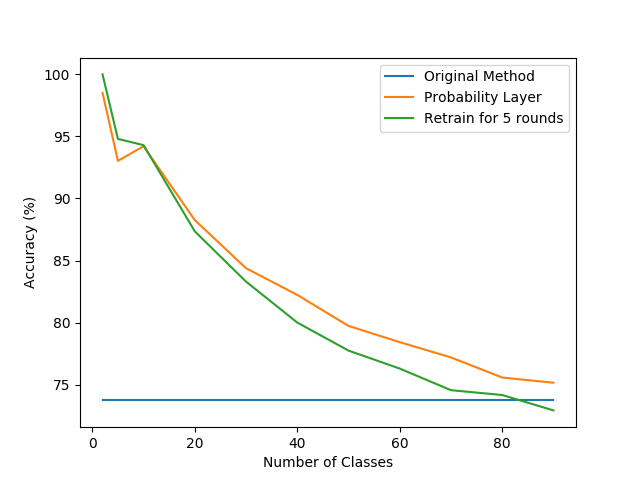
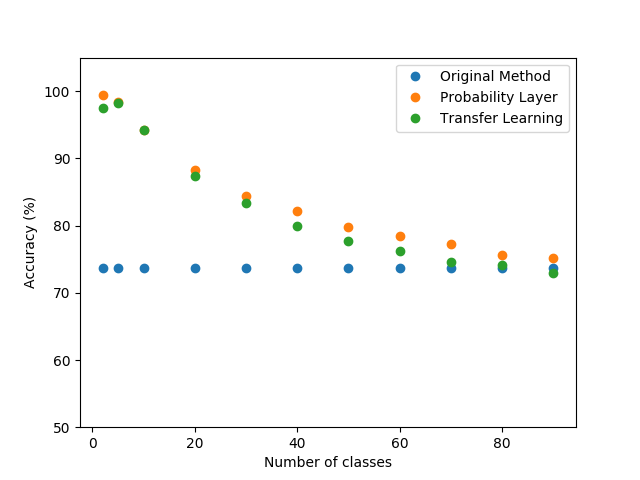
New Version

diff --git a/Writing/NIPS2018/main.tex b/Writing/NIPS2018/main.tex
@@ -10,12 +10,17 @@
 \usepackage{nicefrac}       % compact symbols for 1/2, etc.
 \usepackage{microtype}      % microtypography
 \usepackage{graphicx}
-\usepackage{caption}
+\usepackage[tableposition=top]{caption}
 \usepackage{subcaption}
 \usepackage{amsmath}
 \usepackage{xcolor}
 
-\title{Formatting instructions for NIPS 2018}
+\usepackage{float}
+\floatstyle{plaintop}
+\restylefloat{table}
+
+
+\title{ProbabilityCNN: Environment Adaptive Model Without Finetuning}
 
 % The \author macro works with any number of authors. There are two
 % commands used to separate the names and addresses of multiple
@@ -65,7 +70,7 @@
 
 
 \begin{abstract}
-  We can meet thousands of objects through years, i.e., different kind of animals, plants, and various people, which requires a general model classifying all these object. On the other hand, in a specific environment, like our home or office, only less than ten objects appear, such as family members, pets, and furniture. Thus a special model recognizing a few objects could be sufficient. Using a special model in these environment could lead automatically to a much higher accuracy since there is a reduction in number of classes. However, using special models has a intrinsic problem that there are so many environment and mind-bogglingly many combinations of objects, which makes it infeasible to train special models one-by-one. In the contrast, the general model could be trained once and used everywhere. General model also has another benefit that it has seen much more images than a special model and a special model derived from the general model could have much higher accuracy than the one trained from scratch. The problem is, given various combination of classes and distribution, could we train a general model and \textit{derive specialized models from it efficiently for all combinations?} The intuitive idea would be transfer learning, in which the last few layers of the general model will be retrained for the specialized dataset. However, considering the time latency and energy consuming of retraining a model, we argue that avoiding retraining is critical in the efficient derivation of specialied models. Instead, we brought up \textit{probability layer}, which could adapt the general model to all combinations of classes and distribution efficiently without any retraining. Through experiments, it was shown that probability layer without retraining could perform equivalent or even better than transfer learning with retraining.
+  We can meet thousands of objects through years, i.e., different kind of animals, plants, and various people, which requires a general model to classify all these objects. On the other hand, in a specific environment, like our home or office, only less than ten objects appear, such as family members, pets, and furniture. Thus a special model recognizing a few objects could be sufficient. Using a special model in these environment could lead automatically to a much higher accuracy since there is a reduction in number of classes. However, using special models has a intrinsic problem that there are so many environment and mind-bogglingly many combinations of objects, which makes it infeasible to train special models one-by-one. In the contrast, the general model could be trained once and used everywhere. General model also has another benefit that it has seen much more images than a special model and a special model derived from the general model could have much higher accuracy than the one trained from scratch. The problem is, given various combination of classes and distribution, could we train a general model and \textit{derive specialized models from it efficiently for all combinations?} The intuitive idea would be transfer learning, in which the the general model is fintuned to adapt for new dataset. However, considering the time latency and energy consumption of finetuning a model, we argue that avoiding fintuning is critical in the efficient derivation of specialied models. Instead, we brought up \textit{probability layer}, which could adapt the general model to all combinations of classes and distribution efficiently without any retraining. Through experiments, it was shown that probability layer without retraining could perform equivalent or even better than transfer learning with retraining.
 \end{abstract}
 
 
@@ -164,19 +169,14 @@ I_X(x) = \begin{cases}
 0, &\text{$o.w.$}
 \end{cases}
 \end{equation}
-. If a model have a strong confidence in its prediction, the accuracy would be much higher than the model's average accuracy. Fig. \ref{fig:threshold} shows that accuracy on denseNet for images with predicted probability higher than various threshold. While the original denseNet has top-1 accuracy as $73\%$, the accuracy increase to $83\%$ when we set the threshold $\omega$ to be $75\%$. When we increase furtherly the threshold $\omega$ to be $99\%$, the accuracy would increase to $95.01\%$. Thus when a model has strong confidence in its prediction, we should better believe in the model instead of rescaling. The bar plot in Fig. \ref{fig:threshold} also shows that lots of images can get high predicted probability from original model. For example, in denseNet, there are more than 60\% images get predicted probability higher than 95\%. Thus most of the images from minor classes could be classified correctly. 
-
-\begin{figure}
-\centering
-\includegraphics[scale = 0.6]{threshold.png}
-\caption{Probability Layer Intuition}
-\label{fig:threshold}
-\end{figure}
+. If a model have a strong confidence in its prediction, the accuracy would be much higher than the model's average accuracy. Our experiments show that CNNs will give most of the images high predicted probability and the accuracy of these images will exceed average accuracy a lot. Probability layer helps when the original model is confused on the prediction and will not interfere the decision when the original model has confidence in its prediction.
 
 
 
 
-\begin{figure}
+
+
+\begin{figure}[t]
 \begin{subfigure}{.25\textwidth}
   \centering
   \includegraphics[width=\textwidth]{rocket.png}
@@ -208,67 +208,128 @@ Fig. \ref{fig:intuition} gives intuition on how probability layer utilize enviro
 %how to select general model?
 
 
-% compare probability layer with naive mask
-
 \section{Experiments}
-To show their potential, we evaluate PCNN on three tasks. First, with fixed distribution, we compare the performance of probability layer with transfer learning. Second, for data stream with minor classes, we compare the performance of probability layer with transfer learning. Third, we show that probability layer is complementary to acceleration methods through combining probability layer with spatial redundancy elimination approach \cite{figurnov2016perforatedcnns} to achieve decreased computation and improved accuracy.
+%We use three convolutional neural networks of increasing size and computational complexity: AlexNet \cite{krizhevsky2012imagenet}, ResNet \cite{he2016deep}, and DenseNet \cite{huang2017densely}. We reimplement these three networks on Tensorflow and train the model on CIFAR100 \cite{krizhevsky2009learning} from scratch. The statistics for the original model is shown in Table xxx. In all networks, we attempt to add probability layer after the softmax layer. 
 
-\subsection{Probability layer with fixed distribution}
+We implemented probability layer on DenseNet \cite{huang2017densely} and evaluated the PCNN on specialized dataset with various number of classes and class distribution. We choose DenseNet as the base model since it is the state-of-the-art and has similar results with other state-of-the-art models, i.e., GoogLeNet \cite{szegedy2015going} and ResNet \cite{he2016deep}. We reimplemented the DenseNet on Tensorflow \cite{abadi2016tensorflow} and trained the model on CIFAR100 \cite{krizhevsky2009learning} from scratch. The \textit{specialized dataset} is generated from CIFAR100 \cite{krizhevsky2009learning}, which originally has $100$ classes with equal weight. 
+
+\textbf{Transfer Learning.} Following the published practice \cite{doersch2015unsupervised, han2016mcdnn, oquab2014learning, shen2017fast, yosinski2014transferable}, all fully-connected layers after convolutional layers are finetuned on generated dataset with same class distribution as the testing dataset. To eliminate the effect of epoch, we used three different epochs, i.e., $1$, $5$, and $30$. The maximum epoch is $30$ because latency and energy efficiency are considered.
+
+To show the potential of PCNN, we evaluate probability layer on specialized datasets composed with various number of classes and class distributions. We begin our experiments by showing that different class combinations have significant influence over the accuracy and probability layer can bring in benefit and perform better than transfer learning on all class combinations. Then we show that probability layer can improve accuracy for any number of classes and make use of unbalanced distribution. We proceed to show that most of the images will have predicted probability higher than $75\%$ and the accuracy among these high-confidence images is $84\%$. Finally, we demonstrate that probability layer is complementary to acceleration methods through combining probability layer with spatial redundancy elimination approach \cite{figurnov2016perforatedcnns} to achieve decreased computation and improved accuracy.
+
+\subsection{Class effect}
+We explore the effect of class combinations and compare the performance of probability layer and transfer learning on various class combinations. Fixing number of classes as two, we randomly selected five class combinations and compare the original model, model after transfer learning, and the model with probability layer, see fig. \ref{fig:classEffectExamples}. We see that with the same model, different class combinations may have drmatically different accuracy. While the original model can achieve a accuracy as 83\% for classifying chair and cup, the accuracy for beaver and bear is only 52.5\%. We can also observe that both transfer learning and probability layer can bring in benefit no matter which two classes compose the dataset while probability layer generally performs better than transfer learning. In the randomly selected five class combinations, probability layer can provide an additional benefit of $2.16\%$ on average. Note that for fox and pine, transfer learning provides a slightly better accuracy than probability layer. We believe that this is due to randomness, especially when considering that transfer learning performs better on all other class combinations. 
+
+Fig. \ref{fig:classEffectSummary} gives a summary over performance of all three models on specialized dataset with two and five classes. The figure shows the result from $100$ randomly selected class combinations. We see that, on the original model, while the average accuracy for classifying two classes is $70\%$, the minimum accuracy could be $45\%$ and the maximum accuracy can reach $83\%$, which shows that the accuracy of classifying two classes could change dramatically even using the same model. This observation also holds for transfer learning and probability layer. We can also note that the average accuracy of probability layer is much higher than transfer learning. 
+
+\begin{figure}[t]
+    \begin{subfigure}[b]{0.47\textwidth}
+        %\centering
+        \includegraphics[width=\textwidth]{classEffectLine.png}
+        \caption{Concrete examples}
+        \label{fig:classEffectExamples}
+    \end{subfigure}
+    \begin{subfigure}[b]{0.47\textwidth}
+        %\centering
+        \includegraphics[width=\textwidth]{classEffect.png}
+        \caption{Summary of class effect}
+        \label{fig:classEffectSummary}
+    \end{subfigure}
+    \caption{Class effect on the original model, the model after finetuning, and the model with probability layer.} \label{fig:classEffect}
+\end{figure}
+
+\subsection{Results on specialized datasets with only majority classes}
 % Third paragraph: Experiment setting
-We evaluate probability layer's ability in making use of environment on number of classes as well as in-class distribution when number of classes is fixed. The dataset is a subset of CIFAR100 \cite{krizhevsky2009learning}. CIFAR100 \cite{krizhevsky2009learning} is a dataset containing 100 classes with $50,000$ images in training dataset and $10,000$ images in testing dataset. We trained denseNet \cite{huang2017densely} on original CIFAR100 training datasets. For testing part, to evaluate the performance of probability layer under various conditions, we choose a subset of testing images as the new testing dataset. For various number of classes, we select a subset of classes and each class has equal number of images. For testing the ability to adapt to a dataset with a few major classes and many minor classes, we choose $10$ classes as the major class, select all $100$ testing images for each class, and randomly choose a fixed number of testing images in other $90$ classes, according to the desired percentage that $10$ major classes occupy. For implementing probability layer, we calculate the percentage of every class in the generated testing dataset and set up the parameters in probability layer correspondingly. When implementing transfer learning, we use the same model trained on CIFAR100 and retrain on the same generated training dataset. For the retraining process, we retrain all fully-connected layers after convolutional layers, since this is the method reported to have best accuracy gain (CITATIONS). In the retraining process, various epoches were used, i.e. $1$, $5$, $30$. The maximum epoch tried is $30$ because we consider both latency and energy which could be used in normal operation instead of retraining. For example, if the generated training dataset has 10 classes and 500 images in each class, retraining for $30$ epochs means that $150,000$ images will be processed by the models. Since generally the image will be processed every one second, the machine can proceed around $41$ more hours without so many retraining.
+We explore probability layer's ability on making use of environment when there are only a few majority classes. For each number of classes, we randomly sampled $100$ subsets of classes and present the average accuracy in fig. \ref{fig:PLvsRetrain}. We see that significant benefit has been achieved by probability layer for all number of classes. When there are 5 classes, an increase more than $20\%$ can be achieved without any finetuning. Another point worth noting is that the benefit diminishes gradually as the number of classes increases. Even if there are $40$ classes, a benefit over $10\%$ could still been observed. This shows significant advantage over previously published results \cite{shen2017fast}, in which no benefit exists when there are more than $15$ classes.
+ 
+We compare our results with transfer learning in fig. \ref{fig:PLvsRetrain}. For every specialized dataset, we finetune the model for $5$ rounds on a training dataset with the same class combinations and class distribution as the testing dataset. For all selected class numbers, probability layer performs better than transfer learning. This advantage of probability layer over transfer learning increases as the number of classes increase. We contribute this phenonmenon to the fact that PCNN has seen more images than transfer learning. Existing papers \cite{yosinski2014transferable} has also reported that transfer learning may destroy the co-adaption between layers and deteriorate the performance on prediction. Another point worth noting is that when the number of classes increases over $90$, retraining would bring worse accuracy than original model without retraining. In contrast, the probability layer can still bring 2\% advantage over original model. We believe the reanson is that the deterioration of co-adaption between layers leads to a decrease in accuracy and the reduction in number of classes cannot make up this deterioration when number of classes is $90$, which is almost same as the original class numbers. Probability layer does not need finetuning and thus avoid this problem. All these observations indicate that probability layer has better ability in using various environment.
 
-% Forth paragraph: Show probability layer works on complex models
-Fig. \ref{fig:complexNumber} shows the comparison between probability layer and transfer learning on various number of classes. Original model represents the model with neither probability layer nor transfer learning, i.e. without adaption to the new dataset. We can find that the model with probability layer performs consistently better than the model without probability layer. When number of classes is less than $10$, probability layer can boost the top-1 accuracy to be more than 95\%, which is better than the human's ability in recognition, reported to be a top-5 error of 5.1\% \cite{russakovsky2015imagenet}. When number of classes is less than 10, probability layer's performance is at most 2\% lower than retraining for $5$ rounds. As number of classes becomes larger than $10$, probability layer would always perform better than retraining for $5$ rounds. The advantage of probability layer over retraining increases as number of classes increases. One point worth noting is that when the number of classes increases over $90$, retraining would bring worse accuracy than original model without retraining. In contrast, the probability layer can still bring 2\% advantage over original model. All these observations indicate that probability layer has better ability in using various environment, especially when the number of classes gets larger.
 
-Fig. \ref{fig:complexNumber} shows the accuracy on testing data when there are $10$ major classes occupying various weights among $100$ classes. The other $90$ classes are minor classes with same weights. While the weights increase from $50$\% to $100$\%, probability layer performs consistently better than the retraining for $5$ or $1$ rounds. Even if we retrain the model for $30$ rounds, probability layer still performs better when weights of $10$ major classes is less than $85$\%. When the weights increase over $85$\%, the advantage of retraining for $30$ rounds over probability layer is at most $0.5$\%. Retraining for $30$ rounds takes $60$ seconds and xxx GFLOPS. Considering the intensive energy-consumption and time latency of retraining for $30$ rounds, this benefit of $0.5$\% advantage is not so significant. We should also note that retraining for $30$ rounds would make the accuracy to be much lower than original model when weights of major classes is less than 75\%. Since we need to choose a method before we start in automatically using environment information, we can conclude that probability layer is the most suitable method.
+\subsection{High confidence, high accuracy}
+We justify our design of threshold in probability layer by exhibiting the percentage of images with predicted probability layer higher than various threshold and the accuracy of these images, see fig. \ref{fig:threshold}. While the original denseNet has top-1 accuracy as $73\%$, the accuracy increase to $83\%$ when we set the threshold $\omega$ to be $75\%$. When we increase furtherly the threshold $\omega$ to be $99\%$, the accuracy would increase to $95.01\%$. Thus when a model has strong confidence in its prediction, we should better believe in the model instead of rescaling. 
 
-\begin{figure}
-    \centering
-    \begin{subfigure}[b]{0.49\textwidth}
+We also note that a large portion of images can get high predicted probability from original model. For instance, there are more than 60\% images get predicted probability higher than 95\%. For these images that the original model has strong confidence in its prediction, the probability layer will not interfere the decision. The probability layer will step in when the original model is not sure and give suggestion to the probability layer according to the environment information. 
+
+
+\begin{figure}[!tbp]
+\RawFloats
+
+  \centering
+  \begin{minipage}[b]{0.49\textwidth}
         \centering
         \includegraphics[width=\textwidth]{PLvsRetrain.png}
-        \caption{Various number of classes}
-        \label{fig:complexNumber}
-    \end{subfigure}
-    ~ %add desired spacing between images, e. g. ~, \quad, \qquad, \hfill etc. 
-      %(or a blank line to force the subfigure onto a new line)
-    \begin{subfigure}[b]{0.49\textwidth}
+        \caption{Performance on different number of classes}
+        \label{fig:PLvsRetrain}
+  \end{minipage}
+  \hfill
+  \begin{minipage}[b]{0.49\textwidth}
         \centering
-        \includegraphics[width=\textwidth]{VaryingDistribution.png}
-        \caption{Ten classes occupying various percentage}
-        \label{fig:complexDistribution}
-    \end{subfigure}
-    \caption{Probability layer on denseNet}\label{fig:complex}
+        \includegraphics[width=\textwidth]{threshold.png}
+        \caption{Threshold}
+        \label{fig:threshold}
+  \end{minipage}
 \end{figure}
 
 
-% Fifth paragraph: probability layer can boost accuracy to top-5 accuracy. TODO
 
-\subsection{Probability layer with varied distribution}
 
+\subsection{Results on specialized datasets with both majority and minority classes}
+
+We evaluate the probability layer on noisy environment, in which a few major classes occupies most of the images while a huge number of minority classes also appear. Fig. \ref{fig:variousDistribution5} and fig. \ref{fig:variousDistribution10} shows the results when the numbers of majority classes are five and ten respectively. While the weight of majority classes increases from $50$\% to $100$\%, probability layer performs consistently better than the transfer learning for $5$ or $1$ rounds. Even if we fintune the model for $30$ rounds, probability layer still performs better when weights of major classes is relatively small. When the weights increase further, the advantage of finetuning for $30$ rounds is at most $0.5$\%. Considering the intensive energy-consumption and time latency of retraining for $30$ rounds, this benefit of $0.5$\% advantage is not so significant, especially on devices which requires real time response and has strict energy budget. We should also note that retraining for $1$ rounds would make the accuracy to be much lower than original model when weights of major classes is less than 75\%. Since we need to choose a method before we start in automatically using environment information, we can conclude that probability layer is the most suitable method.
+
+\begin{figure}[t]
+    \centering
+    \begin{subfigure}[b]{0.49\textwidth}
+        \centering
+        \includegraphics[width=\textwidth]{variousPercentage5.png}
+        \caption{Five classes with various distribution}
+        \label{fig:variousDistribution5}
+    \end{subfigure}
+    \begin{subfigure}[b]{0.49\textwidth}
+        \centering
+        \includegraphics[width=\textwidth]{variousPercentage10.png}
+        \caption{Ten classes with various distribution}
+        \label{fig:variousDistribution10}
+    \end{subfigure}
+
+    \caption{Probability layer on denseNet}\label{fig:complex}
+\end{figure}
 
 
 \subsection{Combining acceleration methods}
 A promising way to achieve high speedup and accuracy is to combine acceleration methods with probability layer. For this to succeed, the acceleration methods should utilize different types of redundancy in the network. In this section, we verify that probability layer can be combined with a acceleration methods of using spatial redundancy, \textit{PerforatedCNN} \cite{figurnov2016perforatedcnns}, to achieve high speed up while increasing top-1 accuracy.
 
-We reimplemented the PerforatedCNN \cite{figurnov2016perforatedcnns} on denseNet. PerforatedCNN makes use of spatial redundancy in image by skipping evaluation in some of the spatial positions. Different from other methods in using spatial redundancy, i.e., increasing strides, PerforatedCNN will interpolate these skipped positions using nearest neighborhood, such that the output size will be unchanged. In this way, the architecture remains same and no retraining is needed. The shortage of PerforatedCNN is a huge decrease in accuracy, which could be made up by probability layer.
+We reimplemented the PerforatedCNN \cite{figurnov2016perforatedcnns} on denseNet. PerforatedCNN makes use of spatial redundancy in image by skipping evaluation in some of the spatial positions. Different from other methods in using spatial redundancy, i.e., increasing strides, PerforatedCNN will interpolate these skipped positions using nearest neighborhood, such that the output size will be unchanged. In this way, the architecture remains same and no finetuning is needed. The shortage of PerforatedCNN is that it may introduce a huge decrease in accuracy. Our experiments show that this drawback of PerforatedCNN could be made up by probability layer. Thus combining probability layer with other acceleration methods can both decrease computation and increase accuracy.
 
-We first apply the probability layer to the network. Then we apply the spatial redundancy elimination methods to this network. In the whole process, no retraining is needed. The PerforatedCNN is tested at the theoretical speedup level of 2x. The testing dataset contains $5$ classes with equal frequency. The results are presented in the table xx. The PerforatedCNN decreases computation and accuracy while probability layer increase accuracy and has no contribution towards decreasing computation. Probability layer complements spatial redundancy elimination methods perfectly and the combined method achieves both increase in accurarcy and decrease in computation.
+We first apply the probability layer to the network. Then we apply the spatial redundancy elimination methods to this network. In the whole process, no finetuning is needed. The PerforatedCNN is tested at the theoretical speedup level of 2x. The testing dataset contains $5$ randomly selected classes with equal frequency. The results are presented in the table \ref{tab:my_label}. Due to class effect, the original model will give a top-1 accuracy of $67.9\%$, which is slightly lower than the average accuracy of DenseNet on CIFAR100. With the probability layer, the model without finetuning can increase the top-1 accuracy dramatically to be $98.4\%$. The PerforatedCNN will give top-1 accuracy of $48.19\%$ if we choose the theoretical speedup level of 2x, which is similar to the results reported in PerforatedCNN \cite{figurnov2016perforatedcnns}. Adding the proposed method, the PerforatedCNN can give a top-1 accuracy of $92.20\%$ while decreasing computation by half, which shows that probability layer complements spatial redundancy elimination methods perfectly and provides a promising perspective of combining probability layer with other acceleration methods.
 
-\begin{center}
-\begin{tabular}{ c|c|c } 
- Method & Mult. $\downarrow$ & Accuracy $\uparrow$ (\%) \\ 
- \hline
- Probability Layer & 1.0x & 21\% \\ 
- Perforation & 2.0x & \\ 
- \hline
- Combined Method & - & -
-\end{tabular}
-\end{center}
+%Considering that the accuracy of previously published acceleration methods always decrease the accuracy, this combined method shows great potential and 
+
+
+
+\begin{table}[h]
+    \caption{Summary}
+    \label{tab:my_label}
+
+    \centering
+    \begin{tabular}{ ccc } 
+     Method & Mult. $\downarrow$ & Top-1 Accuracy \\ 
+     \hline
+     Original Model & 1.0x & 67.79\% \\
+     Probability Layer & 1.0x & 98.4\% \\ 
+     Perforation & 2.0x & 48.19\% \\ 
+     \hline
+     Combined Method & 2.0x & 92.20\%
+    \end{tabular}
+\end{table}
+
+
 
 
 \section{Conclusion}
-Transfer learning has numerous intrinsic problems for using environment automatically. When the target classes does not change, probability layer is the alternative way to use environment without retraining and shows comparable or even better performance than transfer learning. Through analysis on logits, a metric is given such that, without actually running, we can decide whether probability layer can bring benefit to a model. Further, probability layer will not obstacle the updating on environment information and allow new classes to come when the model is pretty sure.
+We have presented probability layer which exploit runtime environment information to increase prediction accuracy. Probability layer requires only a single extra layer after the general CNN models with unnoticable extra computation and obtains a boost in accuracy. Compared to transfer learning, probability layer achieves comparable or even better accuracy boost, avoids retraining, and maintain the ability to detect new classes. Additionally, probability layer can be combined with acceleration methods which exploit various types of network redundancy to achieve further speedups.
+
+
 
 
 

diff --git a/Writing/NIPS2018/header.tex b/Writing/NIPS2018/header.tex
@@ -68,7 +68,6 @@
 %\newtheorem{lem}{Example}
 \newcommand{\simd}{SIMD-X}
 
-\theoremstyle{expln}
 \newtheoremstyle{expln}% <name>
 {5pt}% <Space above>
 {5pt}% <Space below>
@@ -81,6 +80,7 @@
 % DOI
 %\acmDOI{10.475/123_4}
 \newtheorem{expln}{Explain}
+\theoremstyle{expln}
 
 
 %\theoremstyle{rul}
